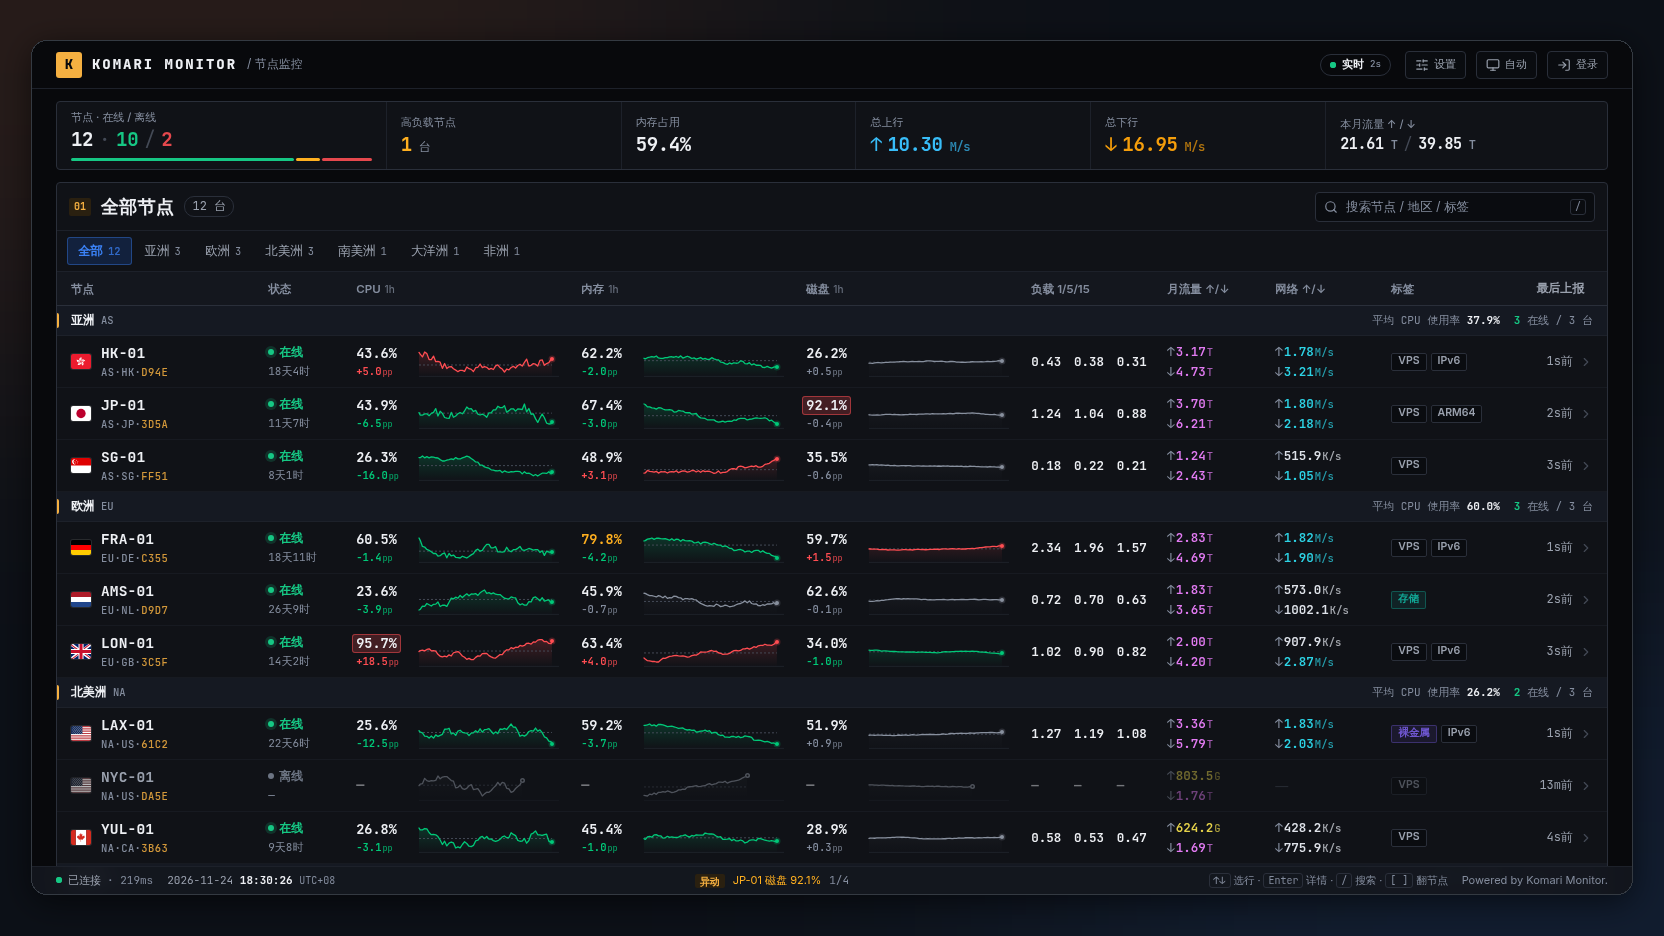
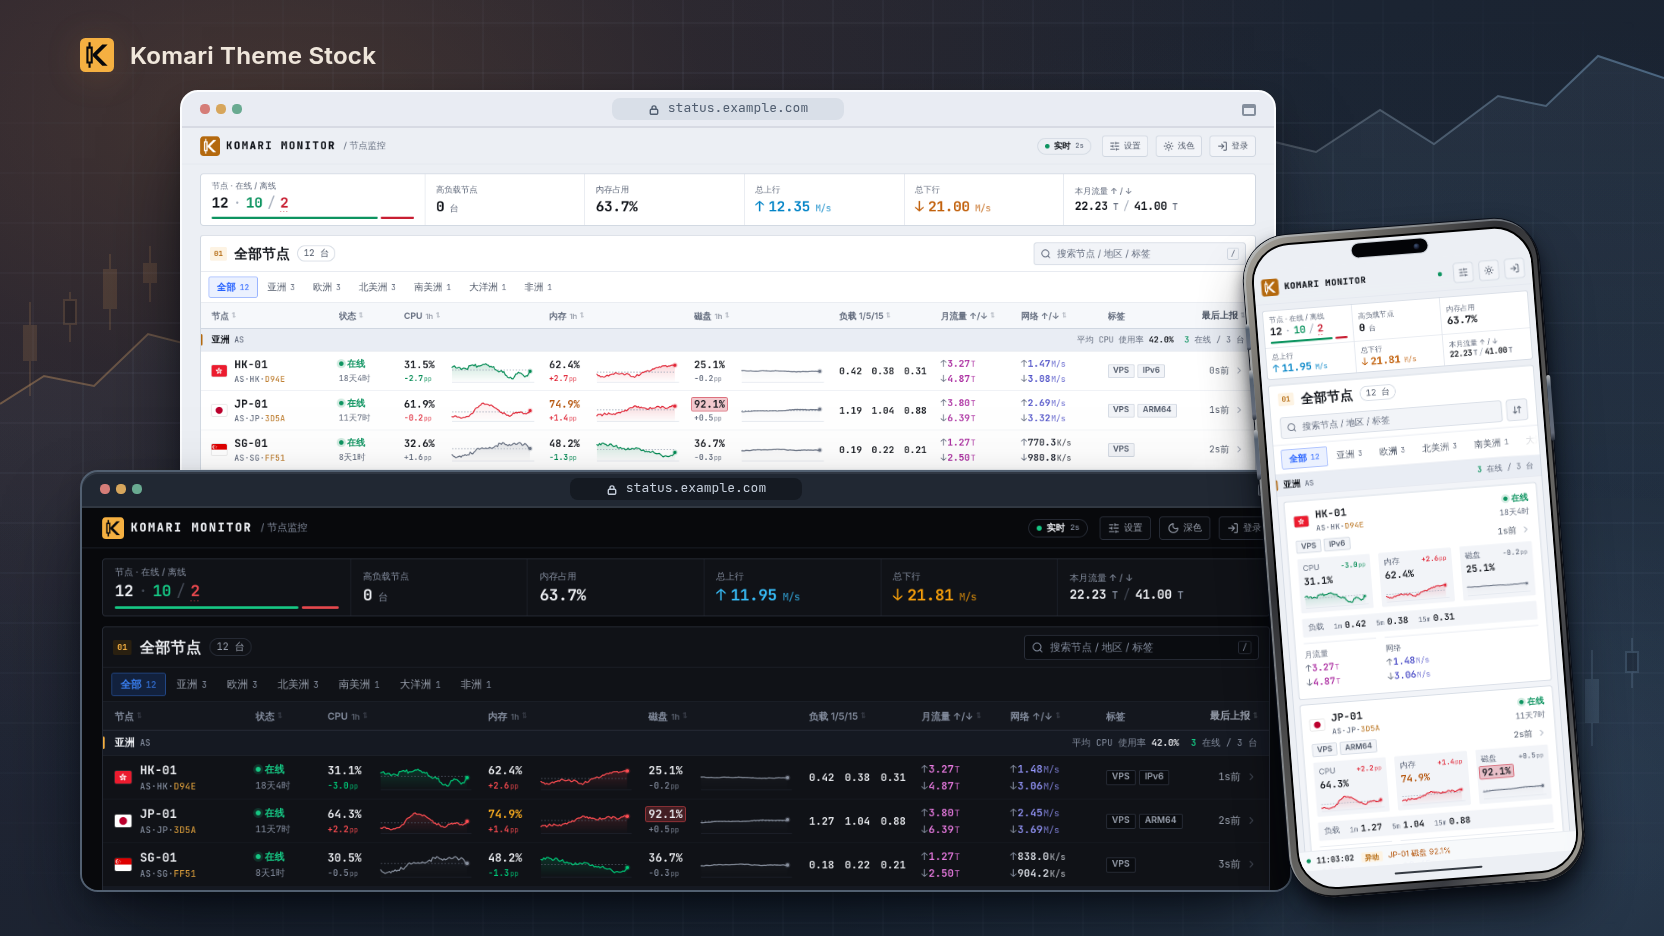
docs: promo images with light and dark boards, the detail page and phones
preview.png stacks the light and dark quote boards in browser frames with
the phone layout in front; stock-detail.png frames the dark detail page;
the new stock-mobile.png shows the board, a node's detail and the settings
on phones. All are real captures of the mock data, in Simplified Chinese.

diff --git a/README.md b/README.md
@@ -37,11 +37,15 @@
 
 **VPS 监控概览**
 
-![监控首页：节点在线状态、地区分组及 CPU、内存和磁盘使用率趋势](./preview.png)
+![监控首页的浅色与深色主题叠放展示：节点在线状态、地区分组及 CPU、内存和磁盘使用率趋势，右侧手机为同一页面的移动端布局](./preview.png)
 
 **节点详情**
 
-![HK-01 节点详情：24 小时 CPU 使用率与网络上下行速率，下方为内存和磁盘用量趋势](./docs/images/stock-detail.png)
+![HK-01 节点详情：24 小时 CPU K 线与网络流量、网络延迟，下方为内存和磁盘用量趋势](./docs/images/stock-detail.png)
+
+**移动端**
+
+![手机上的节点行情、JP-01 节点详情和显示设置](./docs/images/stock-mobile.png)
 
 ## 设置与数据口径
 
